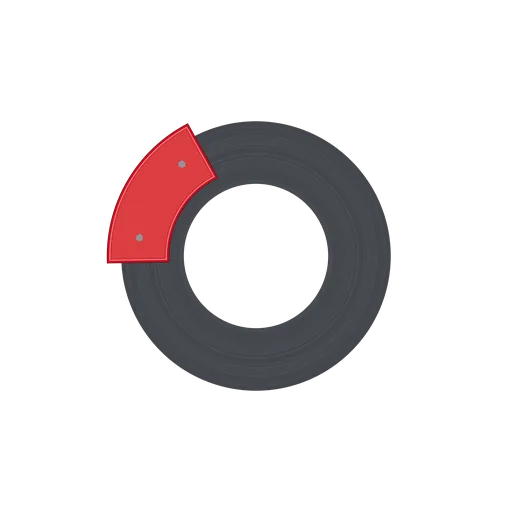
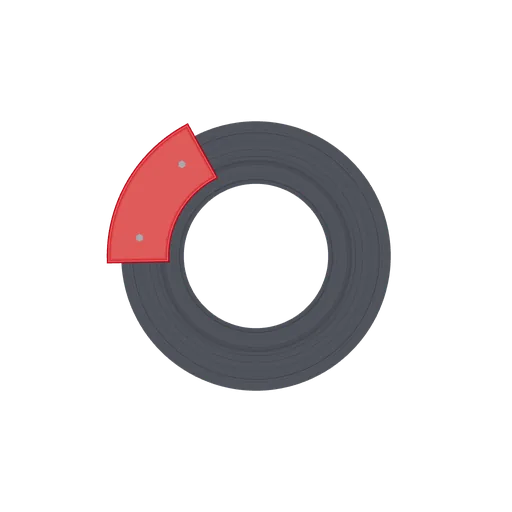
Wheel: rubber, alloy, disc and caliper relit on concentric rings; layer selectors win over the base rule
Claude-Session: https://claude.ai/code/session_01GJA9LqLvcHsRmQeKeLFNUG

Changed region(s): [[0.1875, 0.25, 0.4375, 0.5312]]

diff --git a/scripts/brand/wheel/scene.js b/scripts/brand/wheel/scene.js
@@ -130,12 +130,12 @@ export function buildTyre({ segments = 1080, rows = 200 } = {}) {
   geo.rotateX(Math.PI / 2);
   const { tb, tr } = sidewallMaps(pts, length);
   const mat = new THREE.MeshPhysicalMaterial({
-    color: 0x17171a,
-    roughness: 1,
+    color: 0x26262a,
+    roughness: 0.78,
     roughnessMap: tr,
     metalness: 0,
     bumpMap: tb,
-    bumpScale: 14,
+    bumpScale: 28,
     sheen: 0.35,
     sheenRoughness: 0.6,
     sheenColor: new THREE.Color(0x3a3c42),
@@ -170,18 +170,6 @@ function spokeShape() {
   return s;
 }
 
-function concave(geo, zFront, depth) {
-  const pos = geo.attributes.position;
-  for (let i = 0; i < pos.count; i++) {
-    const x = pos.getX(i), y = pos.getY(i), z = pos.getZ(i);
-    const r = Math.hypot(x, y);
-    const t = 1 - smooth(0.14, 0.66, r);
-    pos.setZ(i, z + zFront - depth * Math.pow(t, 0.8));
-  }
-  geo.computeVertexNormals();
-  return geo;
-}
-
 export function buildRim() {
   const g = new THREE.Group();
   // outer lip (polished), flange and barrel (dark)
@@ -189,11 +177,11 @@ export function buildRim() {
   g.add(new THREE.Mesh(lathe([[0.64, 0.24], [0.636, 0.1], [0.636, -0.28], [0.69, -0.29]], 180), Object.assign(gun(), { side: THREE.DoubleSide })));
   // spoke face
   const spoke = new THREE.ExtrudeGeometry(spokeShape(), {
-    depth: 0.06, bevelEnabled: true, bevelThickness: 0.008, bevelSize: 0.006, bevelSegments: 3, curveSegments: 1,
+    depth: 0.06, bevelEnabled: true, bevelThickness: 0.022, bevelSize: 0.016, bevelSegments: 5, curveSegments: 1,
   });
   // concave face: each spoke leans back toward the hub, about 0.10 deeper at the hub than at the lip (flat facets stay crisp)
   spoke.translate(0, -0.67, -0.06);
-  spoke.rotateX(-Math.atan2(0.1, 0.5));
+  spoke.rotateX(-Math.atan2(0.16, 0.5));
   spoke.translate(0, 0.67, 0.27);
   const faceM = alu(), sideM = gun();
   for (let k = 0; k < 5; k++) {
@@ -221,7 +209,7 @@ export function buildRim() {
   }
   // centre cap: brand red inside a thin alloy ring
   g.add(new THREE.Mesh(lathe([[0.0, 0.192], [0.062, 0.192], [0.07, 0.19], [0.072, 0.18]], 128), alu()));
-  const red = new THREE.MeshPhysicalMaterial({ color: 0xe5262d, metalness: 0.1, roughness: 0.35, clearcoat: 1, clearcoatRoughness: 0.12 });
+  const red = new THREE.MeshPhysicalMaterial({ color: 0xe5262d, metalness: 0, roughness: 0.35, clearcoat: 1, clearcoatRoughness: 0.1, envMapIntensity: 2.2, emissive: 0x5a0a0d, emissiveIntensity: 0.6 });
   g.add(new THREE.Mesh(lathe([[0.0, 0.198], [0.052, 0.196], [0.056, 0.192]], 128), red));
   return g;
 }
@@ -235,9 +223,9 @@ export function buildBrake() {
   x.fillStyle = 'rgb(0,90,0)'; x.fillRect(0, 0, 1024, 1024);
   for (let i = 0; i < 900; i++) {
     const r = (0.3 + Math.random() * 0.26) / 0.56 * 512;
-    const v = 60 + Math.random() * 90;
+    const v = 40 + Math.random() * 200;
     x.strokeStyle = `rgba(0,${v | 0},0,.5)`;
-    x.lineWidth = 0.6 + Math.random();
+    x.lineWidth = 0.6 + Math.random() * 2.5;
     x.beginPath(); x.arc(512, 512, r, 0, TAU); x.stroke();
   }
   const rt = new THREE.CanvasTexture(c);
@@ -245,7 +233,7 @@ export function buildBrake() {
   // planar UVs over the disc's bounding square
   const uv = disc.attributes.uv, p = disc.attributes.position;
   for (let i = 0; i < p.count; i++) uv.setXY(i, p.getX(i) / 1.12 + 0.5, p.getY(i) / 1.12 + 0.5);
-  const steel = new THREE.MeshPhysicalMaterial({ color: 0x6d7076, metalness: 1, roughness: 1, roughnessMap: rt });
+  const steel = new THREE.MeshPhysicalMaterial({ color: 0x5c5f66, metalness: 0.75, roughness: 1, roughnessMap: rt, envMapIntensity: 0.8 });
   const d = new THREE.Mesh(disc, steel); d.position.z = -0.06; g.add(d);
   // drilled holes suggestion: a darker inner band where the vanes show
   const hat = new THREE.Mesh(lathe([[0.0, -0.02], [0.2, -0.02], [0.24, -0.035], [0.3, -0.06]], 128), new THREE.MeshPhysicalMaterial({ color: 0x2b2d31, metalness: 0.8, roughness: 0.55 }));
@@ -257,7 +245,7 @@ export function buildBrake() {
   sh.absarc(0, 0, 0.38, mid + half, mid - half, true);
   sh.closePath();
   const cg = new THREE.ExtrudeGeometry(sh, { depth: 0.07, bevelEnabled: true, bevelThickness: 0.02, bevelSize: 0.02, bevelSegments: 6, curveSegments: 96 });
-  const red = new THREE.MeshPhysicalMaterial({ color: 0xe5262d, metalness: 0.15, roughness: 0.38, clearcoat: 1, clearcoatRoughness: 0.08 });
+  const red = new THREE.MeshPhysicalMaterial({ color: 0xe5262d, metalness: 0, roughness: 0.4, clearcoat: 1, clearcoatRoughness: 0.06, envMapIntensity: 2.2, emissive: 0x5a0a0d, emissiveIntensity: 0.6 });
   const cal = new THREE.Mesh(cg, red); cal.position.z = -0.03; g.add(cal);
   const boltM = new THREE.MeshPhysicalMaterial({ color: 0xb8bcc2, metalness: 1, roughness: 0.3 });
   for (const s of [-1, 1]) {
@@ -274,16 +262,16 @@ function emissive(geo, intensity, color = 0xffffff) {
 }
 
 export function envAxis(renderer) {
-  // light that is the same at every angle around the wheel's axis: a big coaxial ring in front plus a weak frontal fill
+  // light that is the same at every angle around the wheel's axis: concentric rings (bright, dark gap, dimmer) on black,
+  // a wide ring that grazes the sidewall, and a small frontal disc
   const s = new THREE.Scene();
-  s.background = new THREE.Color(0x050506);
-  const ring = emissive(new THREE.TorusGeometry(3.2, 0.9, 32, 256), 2.2);
-  ring.position.z = 3.2; s.add(ring);
-  const fill = emissive(new THREE.CircleGeometry(1.4, 96), 0.55);
-  fill.position.z = 6; s.add(fill);
-  const back = emissive(new THREE.TorusGeometry(6, 1.2, 16, 128), 0.25);
-  back.position.z = -1; s.add(back);
-  return new THREE.PMREMGenerator(renderer).fromScene(s, 0.02).texture;
+  s.background = new THREE.Color(0x000000);
+  const add = (m, z) => { m.position.z = z; s.add(m); };
+  add(emissive(new THREE.TorusGeometry(2.4, 0.35, 24, 256), 4.0), 4.2); // bright, about 30 degrees off axis
+  add(emissive(new THREE.TorusGeometry(1.1, 0.18, 24, 256), 1.6), 5); // dimmer, about 12 degrees
+  add(emissive(new THREE.TorusGeometry(5.5, 0.9, 24, 256), 1.6), 1.2); // wide, grazing the sidewall bulge
+  add(emissive(new THREE.CircleGeometry(0.35, 64), 1.2), 6);
+  return new THREE.PMREMGenerator(renderer).fromScene(s, 0.01).texture;
 }
 
 export function envStudio(renderer, top = false) {

diff --git a/src/styles/wheel.css b/src/styles/wheel.css
@@ -23,19 +23,19 @@
   background: center / contain no-repeat;
 }
 
-.wheel-brake {
+.wheel > .wheel-brake {
   background-image: url('/brand/wheel/brake-512.webp');
 }
 
-.wheel-rim {
+.wheel > .wheel-rim {
   background-image: url('/brand/wheel/wheel-512.webp');
 }
 
-.wheel.is-small .wheel-brake {
+.wheel.is-small > .wheel-brake {
   background-image: url('/brand/wheel/brake-160.webp');
 }
 
-.wheel.is-small .wheel-rim {
+.wheel.is-small > .wheel-rim {
   background-image: url('/brand/wheel/wheel-160.webp');
 }
 

diff --git a/scripts/brand/wheel/render.py b/scripts/brand/wheel/render.py
@@ -34,7 +34,7 @@ def serve():
     return httpd
 
 
-def grab(page, name, size=2048):
+def grab(page, name, size=int(os.environ.get('SIZE', '2048'))):
     url = page.evaluate(f"window.renderLayer('{name}', {size})")
     im = Image.open(io.BytesIO(base64.b64decode(url.split(',')[1]))).convert('RGBA')
     if RAW:

diff --git a/scripts/brand/wheel/README.md b/scripts/brand/wheel/README.md
@@ -1,0 +1,10 @@
+# The wheel renders
+
+`scene.js` is the model (tyre, rim, brake, light rigs), `render.html` exposes `window.renderLayer(name, size)`,
+`render.py` drives it in headless Chromium and writes WebP into `public/brand/wheel/`.
+
+Re-run (three installed anywhere outside the repo with `npm i three`):
+
+    THREE_DIR=<path>/node_modules/three/build SIZE=1024 python3 scripts/brand/wheel/render.py wheel brake full
+
+Layers: wheel, brake, full, hero, tread, track. SIZE is the render size before LANCZOS downsampling (2048 default).
